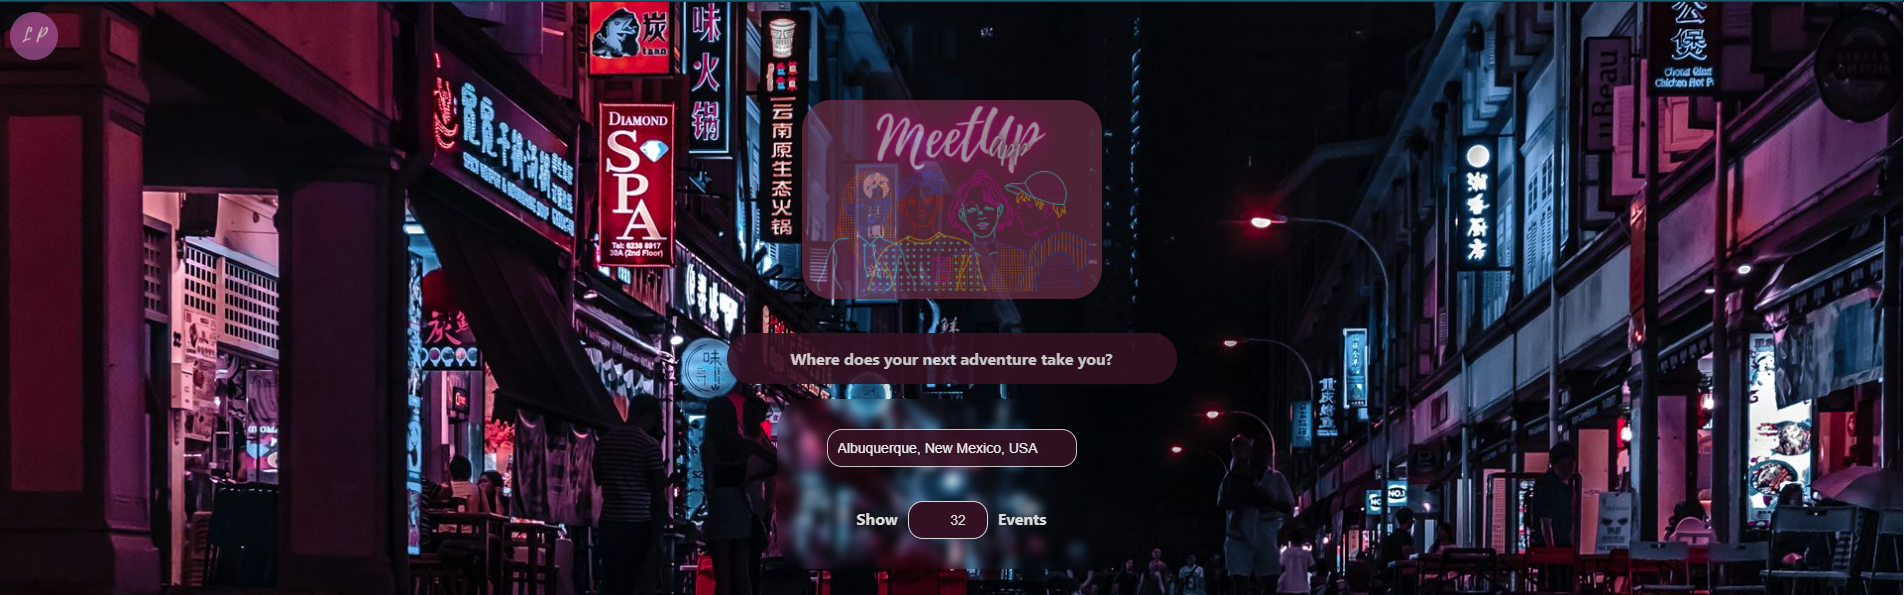
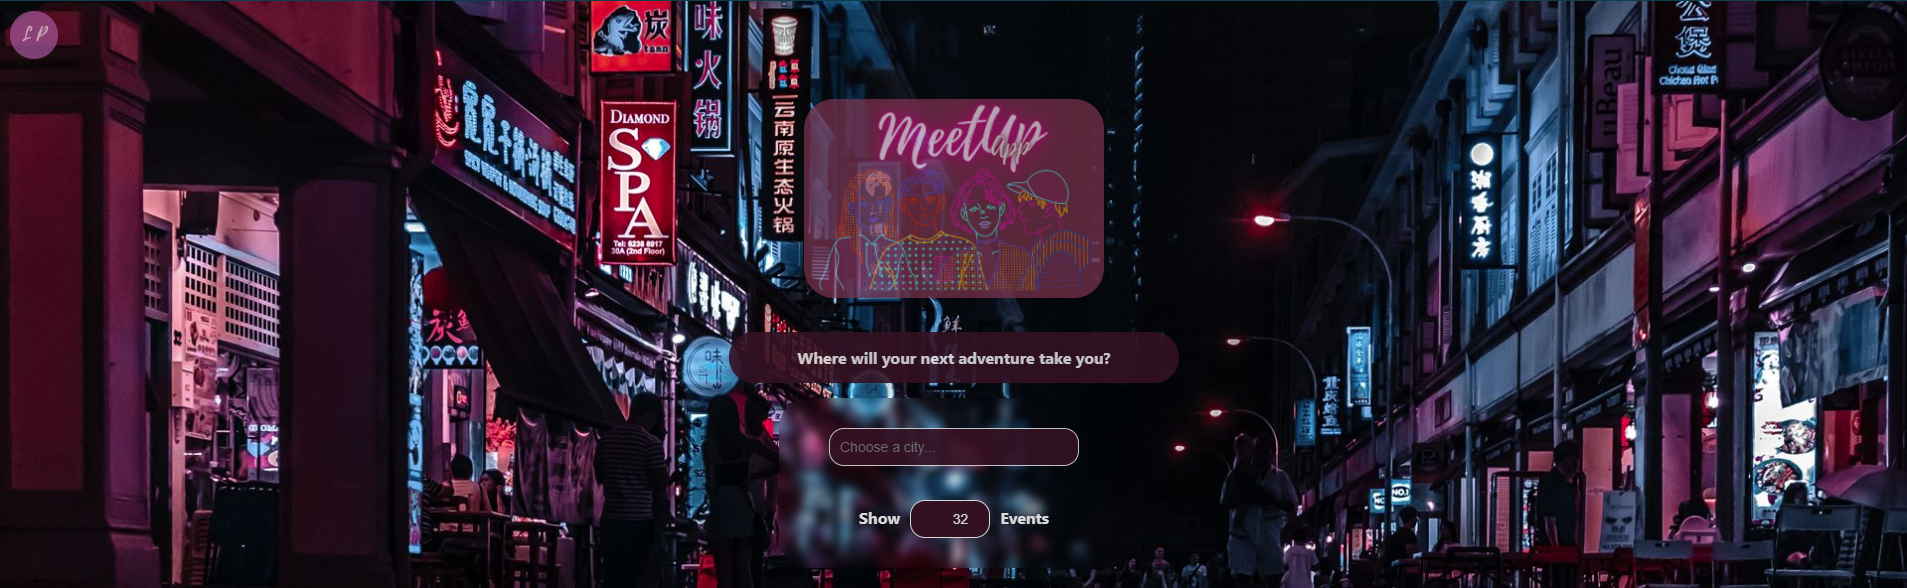
Minor title edit, updated imcs accordingly

diff --git a/src/App.js b/src/App.js
@@ -83,7 +83,7 @@ class App extends Component {
           <img className="logoTitle" src={logoTitle}
             alt="MeetUp App logo" />
         </div>
-        <h4 id="adventureTitle">Where does your next adventure take you?</h4>
+        <h4 id="adventureTitle">Where will your next adventure take you?</h4>
         <div className="searchArea" >
           <CitySearch updateEvents={this.updateEvents} />
           <NumberOfEvents updateEvents={this.updateEvents} />
